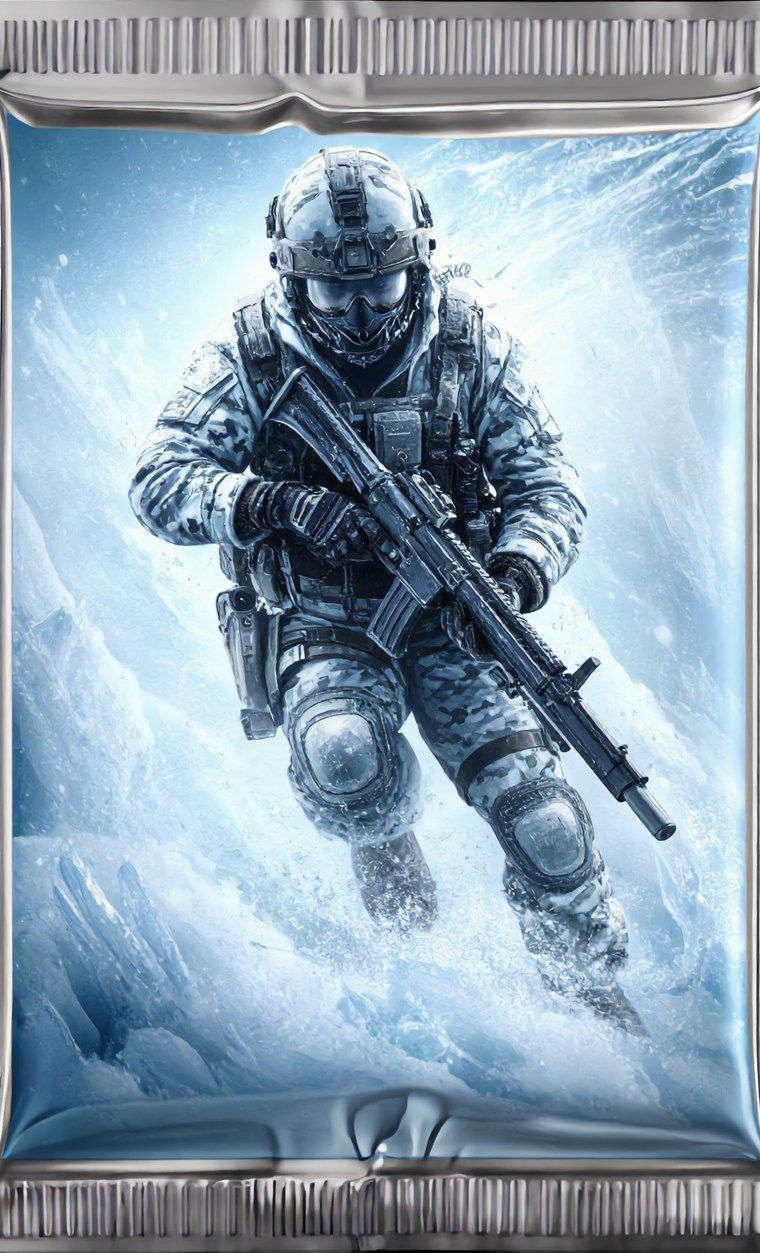
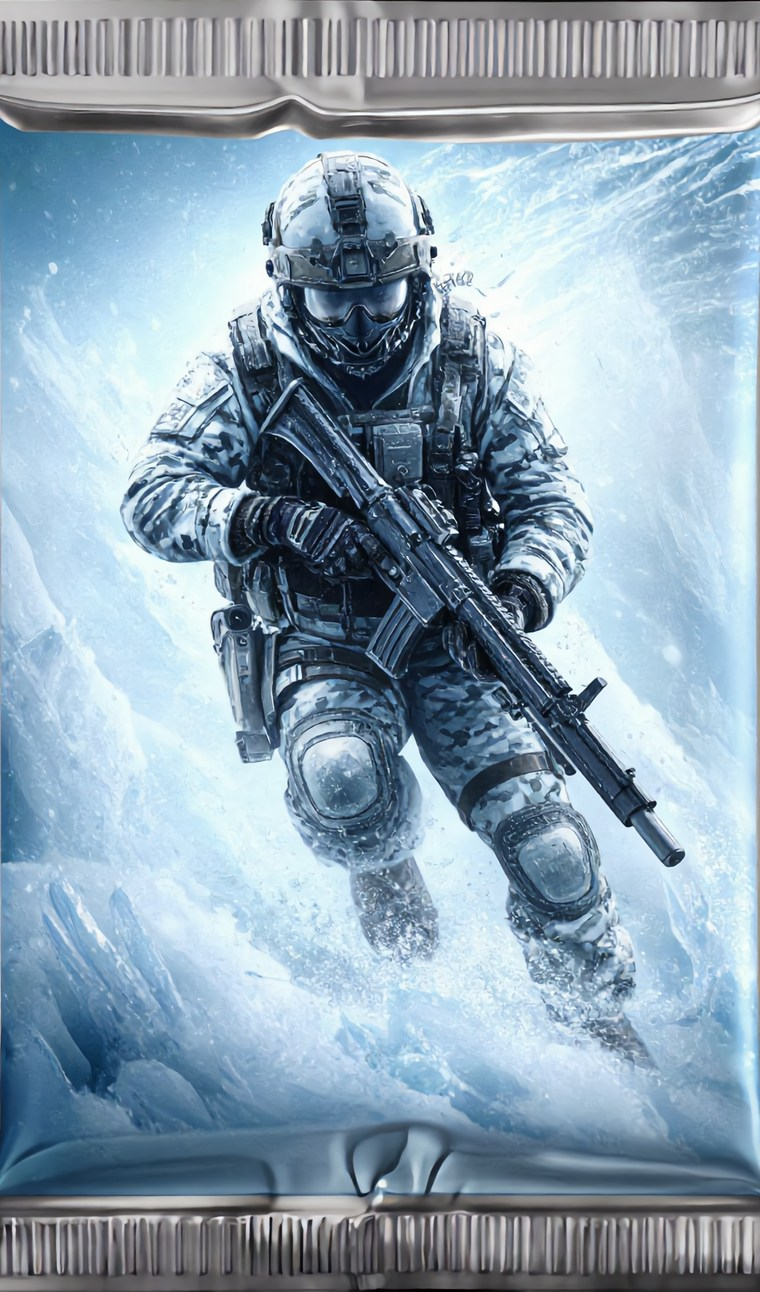
Les traits noirs etaient dans les planches, pas dans le rendu
Deux causes distinctes, et j'ai longtemps cherche la seconde du mauvais
cote.

D'abord un vrai defaut de rendu. Les tuiles du pourtour debordent du
sachet — leur chevauchement et la correction d'inclinaison les
elargissent des deux cotes, y compris vers l'exterieur, la ou il n'y a
pas de voisine. Elles echantillonnaient donc au-dela de la planche, et
`background-repeat: no-repeat` n'y laisse rien : on voyait le fond de
page a travers, en filet sombre le long des bords. Les fonds sont
desormais dessines trois pixels plus grands et recales d'autant.

Puis le reste, qui n'etait pas dans le code du tout. Le generateur peint
un lisere sombre le long du film, sur une vingtaine de pixels, et le
recadrage le gardait : ce trait noir vertical etait dans l'image. Il
ressemblait a s'y meprendre a un artefact de rendu, ce qui a coute
plusieurs fausses pistes — la coupe mediane, le bombement, les coutures
de tuiles — avant qu'on ne le cherche dans la planche elle-meme.

Les quatre planches sont donc redecoupees 25 px plus a l'interieur, boite
commune de 1258 x 2139. Verifie en mesurant la luminance moyenne des
colonnes de bord de chaque fichier produit : elle est desormais dans la
plage du centre, la ou elle tombait a 90 auparavant. Le ratio suit, de
1:1,654 a 1:1,700, et le sachet passe de 331 a 340 px de haut.

La recette est notee dans la direction artistique, avec le controle de
luminance a refaire sur toute planche supplementaire.

diff --git a/components/BoosterPack3D.tsx b/components/BoosterPack3D.tsx
@@ -6,12 +6,12 @@ import { PackArtwork } from './PackArtwork';
 /**
  * Dimensions d'affichage, en pixels.
  *
- * Elles suivent le ratio de la planche détourée — 1295 × 2142, soit **1:1,654**.
+ * Elles suivent le ratio de la planche détourée — 1258 × 2139, soit **1:1,700**.
  * Un booster du commerce est un peu plus élancé (1:1,75), mais c'est la planche
  * qui fait foi : l'écart se paierait en visages étirés.
  */
 const W = 200;
-const H = 331;
+const H = 340;
 
 /**
  * Demi-épaisseur du sachet en son point le plus gonflé.
@@ -45,6 +45,22 @@ const ROWS = [0, 0.034, 0.07, 0.115, 0.885, 0.93, 0.966, 1];
 
 /** Chevauchement des tuiles, pour que les coutures ne s'ouvrent pas. */
 const CHEV = 1.3;
+
+/**
+ * Marge de sécurité sur les fonds, en pixels de sachet.
+ *
+ * Les tuiles du pourtour débordent du sachet — leur chevauchement et la
+ * correction d'inclinaison les élargissent des deux côtés, y compris vers
+ * l'extérieur, là où il n'y a pas de voisine. Sans marge, elles échantillonnent
+ * au-delà de la planche, et `background-repeat: no-repeat` n'y laisse rien : on
+ * voyait le fond de page à travers, sous la forme d'un filet sombre courant le
+ * long des bords.
+ *
+ * Les fonds sont donc dessinés trois pixels plus grands que le sachet et
+ * recalés d'autant. Trois sur deux cents, soit un agrandissement d'un pour
+ * soixante-six : invisible.
+ */
+const MARGE = 3;
 
 const RAD = Math.PI / 180;
 const DEG = 180 / Math.PI;
@@ -574,7 +590,11 @@ export function BoosterPack3D({
               transform: `translateZ(${t.z.toFixed(2)}px) rotateY(${t.ry.toFixed(2)}deg) rotateX(${t.rx.toFixed(2)}deg)`,
               backgroundImage: couches.join(', '),
               backgroundSize: couches
-                .map((_, k) => (k === 0 ? `${LARGEUR_ECLAT}px ${H}px` : `${W}px ${H}px`))
+                .map((_, k) =>
+                  k === 0
+                    ? `${LARGEUR_ECLAT}px ${H + MARGE * 2}px`
+                    : `${W + MARGE * 2}px ${H + MARGE * 2}px`,
+                )
                 .join(', '),
               backgroundBlendMode: couches.map((_, k) => (k === 0 ? 'screen' : 'normal')).join(', '),
               // Seul le reflet bouge : sa position part de `--balayage`, les
@@ -582,8 +602,8 @@ export function BoosterPack3D({
               backgroundPosition: couches
                 .map((_, k) =>
                   k === 0
-                    ? `calc(var(--balayage) - ${t.left.toFixed(2)}px) ${(-t.top).toFixed(2)}px`
-                    : `${(-t.left).toFixed(2)}px ${(-t.top).toFixed(2)}px`,
+                    ? `calc(var(--balayage) - ${t.left.toFixed(2)}px) ${(-t.top - MARGE).toFixed(2)}px`
+                    : `${(-t.left - MARGE).toFixed(2)}px ${(-t.top - MARGE).toFixed(2)}px`,
                 )
                 .join(', '),
             }}
@@ -601,7 +621,7 @@ export function BoosterPack3D({
         // Les tuiles du verso sont retournées sur elles-mêmes : leur repère
         // horizontal est inversé. Sans ce décalage miroir, chaque tuile
         // redémarrerait le dégradé pour son compte et le maillage réapparaîtrait.
-        const px = (t.left + t.w - W).toFixed(2);
+        const px = t.left + t.w - W;
         return (
           <span
             key={`ar${i}`}
@@ -614,7 +634,11 @@ export function BoosterPack3D({
               transform: `translateZ(${(-t.z).toFixed(2)}px) rotateY(${(-t.ry).toFixed(2)}deg) rotateX(${(-t.rx).toFixed(2)}deg) rotateY(180deg)`,
               backgroundImage: couches.join(', '),
               backgroundSize: couches
-                .map((_, k) => (k === 0 ? `${LARGEUR_ECLAT}px ${H}px` : `${W}px ${H}px`))
+                .map((_, k) =>
+                  k === 0
+                    ? `${LARGEUR_ECLAT}px ${H + MARGE * 2}px`
+                    : `${W + MARGE * 2}px ${H + MARGE * 2}px`,
+                )
                 .join(', '),
               backgroundBlendMode: couches.map((_, k) => (k === 0 ? 'screen' : 'normal')).join(', '),
               // Le repère du verso est inversé : le reflet s'y ajoute au lieu de
@@ -623,8 +647,8 @@ export function BoosterPack3D({
               backgroundPosition: couches
                 .map((_, k) =>
                   k === 0
-                    ? `calc(${px}px + var(--balayage)) ${(-t.top).toFixed(2)}px`
-                    : `${px}px ${(-t.top).toFixed(2)}px`,
+                    ? `calc(${px.toFixed(2)}px + var(--balayage)) ${(-t.top - MARGE).toFixed(2)}px`
+                    : `${(px - MARGE).toFixed(2)}px ${(-t.top - MARGE).toFixed(2)}px`,
                 )
                 .join(', '),
             }}

diff --git a/components/PackArtwork.tsx b/components/PackArtwork.tsx
@@ -15,12 +15,12 @@
 /**
  * Le repère du dessin.
  *
- * Il suit le ratio de la planche détourée (1295 × 2142, soit 1:1,654) : le SVG
+ * Il suit le ratio de la planche détourée (1258 × 2139, soit 1:1,700) : le SVG
  * est tracé en `preserveAspectRatio="none"`, donc tout écart se paierait en
  * étirement du massif et du cadre.
  */
 const W = 200;
-const H = 331;
+const H = 340;
 
 /** Hauteur du sertissage, en haut comme en bas. */
 const CRIMP = 26;

diff --git a/app/globals.css b/app/globals.css
@@ -1914,8 +1914,8 @@
     top: 50%;
     left: 50%;
     width: 200px;
-    height: 331px;
-    margin: -165px 0 0 -100px;
+    height: 340px;
+    margin: -170px 0 0 -100px;
     will-change: transform;
     transition:
       transform 400ms cubic-bezier(0.22, 1, 0.36, 1),

diff --git a/docs/DIRECTION-ARTISTIQUE.md b/docs/DIRECTION-ARTISTIQUE.md
@@ -187,8 +187,8 @@ autres, l'écart est net.
 
 | | |
 |---|---|
-| Format | **vertical, ratio 1:1,774** — celui d'un booster du commerce (67 × 117 mm) |
-| Résolution | 760 × 1348 |
+| Format | **vertical, ratio 1:1,700** — celui de la découpe des quatre planches |
+| Résolution | 760 × 1292 |
 | Livraison | JPEG qualité 90 ou WebP 84, moins de 250 Ko |
 | Nom du fichier | l'identifiant du booster : `givre`, `blizzard`, `aurore`, `solstice` |
 | Emplacement | `public/boosters/` |
@@ -249,12 +249,20 @@ l'historique d'ouverture et dans le grand livre.
 | `aurore` — **Hors-Piste** | un opérateur à ski dans une pente vierge, gerbe de neige, sommet au fond | `SUPER RARE` |
 | `solstice` — **Everest** | un sommet gagné, drapeau planté, la brume en contrebas | `ULTRA RARE` |
 
-Les quatre partagent une découpe identique — même boîte de 1297 × 2139 dans la planche
-source — parce que le générateur rend toujours le même placement. C'est ce qui garantit
-qu'elles ont exactement le même gabarit, le composant n'ayant qu'un seul ratio pour
-tous. Pour une cinquième planche, reprends cette boîte et vérifie seulement les bords au
-pixel : sur `solstice`, le bord gauche tombait à 207 au lieu de 203, et la boîte a été
-décalée de deux pixels sans changer de taille.
+Les quatre partagent une découpe identique — même boîte de 1258 × 2139 dans la
+planche source — parce que le générateur rend toujours le même placement. C'est ce
+qui garantit qu'elles ont exactement le même gabarit, le composant n'ayant qu'un seul
+ratio pour tous.
+
+**La boîte est rentrée d'environ 25 px sous le bord du sachet**, et c'est important.
+Le générateur peint un liseré sombre le long du film, sur une vingtaine de pixels. Le
+garder plaçait un trait noir vertical de chaque côté du sachet à l'écran — un défaut
+qui ressemblait à s'y méprendre à un artefact de rendu, et qui a coûté plusieurs
+fausses pistes avant qu'on ne le cherche dans l'image elle-même.
+
+Pour une planche supplémentaire, reprends cette boîte et vérifie la luminance moyenne
+des colonnes de bord du fichier produit : elle doit rester dans la plage du centre. Si
+elle est nettement plus basse, le liseré est encore dedans.
 
 ### Si le générateur rend le sachet de trois quarts
 
